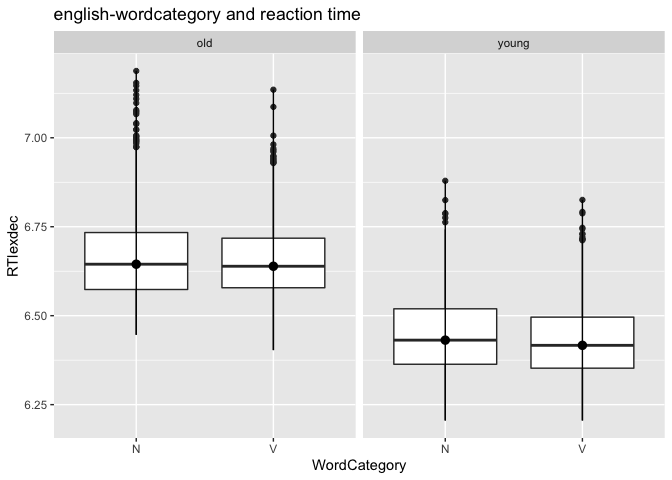
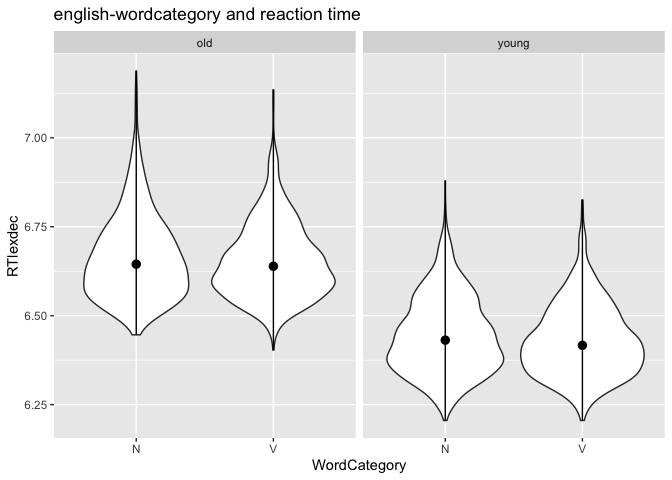
change plot type

diff --git a/misc/students/chaoyi_chen/pa2/README.md b/misc/students/chaoyi_chen/pa2/README.md
@@ -1,7 +1,7 @@
 Programming assignment 2
 ================
 Chaoyi Chen
-Last update: 2021-02-09
+Last update: 2021-02-10
 
 **i. A bivariate scatterplot**
 
@@ -48,7 +48,7 @@ facet.**
 english %>%
   ggplot(aes(x = WordCategory, y = RTlexdec)) +
   labs(title = "english-wordcategory and reaction time") +
-  geom_boxplot() +
+  geom_violin() +
   facet_wrap(~AgeSubject) +
   stat_summary(mapping = aes(x = WordCategory, y = RTlexdec),fun.min = min, fun.max = max, fun = median)
 ```
